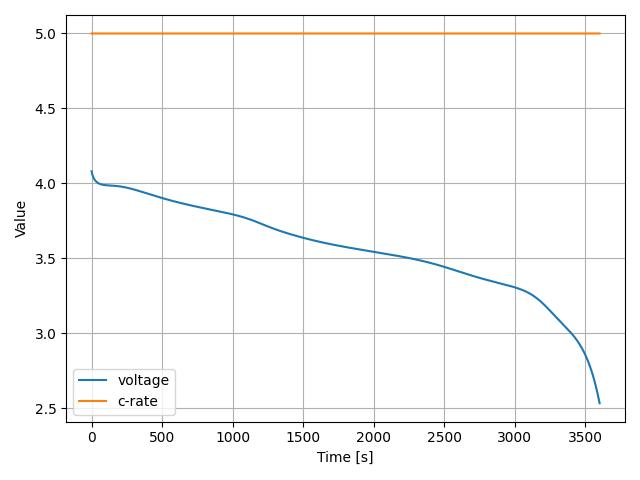
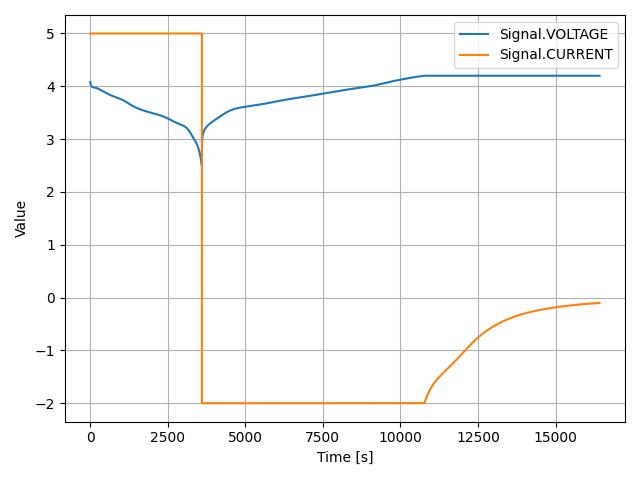
Added Evironment attribut for thermal ; new Signal type for results

diff --git a/backend/pybamm_backend.py b/backend/pybamm_backend.py
@@ -3,12 +3,15 @@ import pybamm
 from typing import Type
 
 from battery_sim.backend.base import SimulationBackend
+from battery_sim.backend.pybamm_signal import PYBAMM_SIGNAL_MAP
 from battery_sim.core.cell import Cell
+from battery_sim.core.environment import Environment
 from battery_sim.core.model import Model
 from battery_sim.core.simulation import Simulation
 from battery_sim.core.result import Result
 from battery_sim.core.solver import Solver, SolverConfig
 from battery_sim.types.timeseries import TimeSeries
+from battery_sim.types.signal import Signal
 
 _SOLVER_REGISTRY: dict[Solver, Type[pybamm.BaseSolver]] = {
      Solver.CASADI: pybamm.CasadiSolver,
@@ -20,10 +23,10 @@ class PyBaMMBackend(SimulationBackend):
 
     def run(self, simulation: Simulation, **kwargs) -> Result:
         
-        model = self._build_model(simulation.model)
+        model = self._build_model(simulation.model, simulation.environment)
         experiment = self._build_experiment(simulation)
         solver = self._build_solver(simulation.solver_config)
-        parameters = self._build_parameters(simulation.cell)
+        parameters = self._build_parameters(simulation.cell, simulation.environment)
 
         sim = pybamm.Simulation(
              model,
@@ -37,22 +40,43 @@ class PyBaMMBackend(SimulationBackend):
              initial_soc=1
         )
 
+        data = {}
         time = solution["Time [s]"].data
-        voltage = solution["Terminal voltage [V]"].data
-        c_rate = solution["C-rate"].data
+        for signal, (pybamm_name, unit) in PYBAMM_SIGNAL_MAP.items():
 
-        return Result({
-             "time": TimeSeries(time_s=time, values=time, unit="s"),
-             "voltage": TimeSeries(time_s=time, values=voltage, unit="V"),
-             "c-rate": TimeSeries(time_s=time, values=c_rate, unit="-")
-        })
+            values = solution[pybamm_name].data
 
-    def _build_model(self, model: Model) -> pybamm.lithium_ion.BaseModel:
+            if signal == Signal.SOC:
+                values = values * 100.0
+
+            if signal == Signal.TEMPERATURE:
+                values = values - 273.15
+                unit = "C"
+            
+            data[signal] = TimeSeries(
+                time_s=time,
+                values=values,
+                unit=unit
+            )
+
+        return Result(data)
+
+    def _build_model(self, model: Model, environment: Environment) -> pybamm.lithium_ion.BaseModel:
+        options = {}
+        
+        if environment.convection_W_per_m2K is not None:
+            options["thermal"] = "lumped"
+
+            # "isothermal" → pas de thermique
+            # "lumped" → 1 température cellule
+            # "x-lumped" / "x-full" → spatial 
+            
+
         if model == Model.SPM:
-            return pybamm.lithium_ion.SPM()
+            return pybamm.lithium_ion.SPM(options=options)
         
         elif model == Model.DFN:
-            return pybamm.lithium_ion.DFN()
+            return pybamm.lithium_ion.DFN(options=options)
         
         else:
             raise ValueError(f"Unsupported model: {model}")
@@ -67,10 +91,8 @@ class PyBaMMBackend(SimulationBackend):
         
         if simulation.solver_config.time_step_s is not None:
              periode = f"{simulation.solver_config.time_step_s} seconds"
-
-        temperature_k = simulation.environment.temperature_C + 273.15
             
-        return pybamm.Experiment(steps, periode, temperature_k)
+        return pybamm.Experiment(steps, periode)
     
     def _build_solver(self, solver_config: SolverConfig) -> pybamm.BaseSolver:
          try:
@@ -83,38 +105,53 @@ class PyBaMMBackend(SimulationBackend):
               atol=solver_config.atol
          )
     
-    def _build_parameters(self, cell: Cell) -> pybamm.ParameterValues:
+    def _build_parameters(self, cell: Cell, environment: Environment) -> pybamm.ParameterValues:
         """
-        Build a PyBaMM ParameterValues object from a Cell object.
+        Build a PyBaMM ParameterValues object from:
+        - Cell object
+        - Environment object
         """
         param_values = pybamm.ParameterValues("Chen2020")
+        updates = {}
 
         # Map Cell parameters to PyBaMM parameters
+              
         if cell.nominal_capacity_Ah is not None:
-            param_values["Nominal cell capacity [A.h]"] = cell.nominal_capacity_Ah
+            updates["Nominal cell capacity [A.h]"] = cell.nominal_capacity_Ah
         if cell.nominal_voltage_V is not None:
-            param_values["Nominal voltage [V]"] = cell.nominal_voltage_V
+            updates["Nominal voltage [V]"] = cell.nominal_voltage_V
         
         # TODO: add more parameters as needed
         # TODO: add correct parameters name for the following:
 
         # if cell.internal_resistance_Ohm is not None:
-        #     param_values["Internal resistance [Ohm]"] = cell.internal_resistance_Ohm
+        #     updates["Internal resistance [Ohm]"] = cell.internal_resistance_Ohm
 
         if cell.electrode_area_m2 is not None:
-            param_values["Electrode area [m^2]"] = cell.electrode_area_m2
+            updates["Electrode area [m^2]"] = cell.electrode_area_m2
         if cell.electrode_thickness_m is not None:
-            param_values["Electrode thickness [m]"] = cell.electrode_thickness_m
+            updates["Electrode thickness [m]"] = cell.electrode_thickness_m
 
         if cell.density_kg_per_m3 is not None:
-            param_values["Density [kg/m^3]"] = cell.density_kg_per_m3
+            updates["Density [kg/m^3]"] = cell.density_kg_per_m3
         if cell.specific_heat_J_per_kgK is not None:
-            param_values["Specific heat capacity [J/kg/K]"] = cell.specific_heat_J_per_kgK
+            updates["Specific heat capacity [J/kg/K]"] = cell.specific_heat_J_per_kgK
         if cell.thermal_conductivity_W_per_mK is not None:
-            param_values["Thermal conductivity [W/m/K]"] = cell.thermal_conductivity_W_per_mK
+            updates["Thermal conductivity [W/m/K]"] = cell.thermal_conductivity_W_per_mK
 
+
+        # Map Environment parameters to PyBaMM parameters
+        if environment.temperature_C is not None:
+            updates["Ambient temperature [K]"] = environment.temperature_C + 273.15
+        if environment.ambiant_temperature_C is not None:
+            updates["Ambient temperature [K]"] = environment.ambiant_temperature_C + 273.15
+        if environment.convection_W_per_m2K is not None:
+            updates["Convection coefficient [W/m^2/K]"] = environment.convection_W_per_m2K
+
+
+        param_values.update(updates)
         return param_values
-    
+
     def supports_model(self, model: Model) -> bool:
          return model  in {Model.SPM, Model.DFN}
 

diff --git a/core/result.py b/core/result.py
@@ -1,21 +1,22 @@
 # battery_sim/core/result.py
 from typing import Optional, Dict
 from battery_sim.types.timeseries import TimeSeries
+from battery_sim.types.signal import Signal
 
 class Result:
-    def __init__(self, data: Dict[str, TimeSeries]):
+    def __init__(self, data: Dict[Signal, TimeSeries]):
         self._data = data
 
-    def get(self, name: str) -> TimeSeries:
-        return self._data[name]
+    def get(self, signal: Signal) -> TimeSeries:
+        return self._data[signal]
 
-    def final(self, name: str) -> float:
-        return self._data[name].values[-1]
+    def final(self, signal: Signal) -> float:
+        return self._data[signal].values[-1]
 
-    def available_signals(self):
+    def available_signals(self) -> list[Signal]:
         return list(self._data.keys())
     
-    def plot(self, names: Optional[list[str]]):
+    def plot(self, names: Optional[list[Signal]]):
         import matplotlib.pyplot as plt
 
         if names is None:

diff --git a/core/environment.py b/core/environment.py
@@ -7,12 +7,18 @@ from typing import Optional
 class Environment:
     temperature_C: float
     convection_W_per_m2K: Optional[float] = None
+    ambiant_temperature_C: Optional[float] = None
 
     def validate(self) -> None:
-        if self.temperature_C > 100.0 or self.temperature_C < -40.0:
+        if not (-40.0 <= self.temperature_C <= 100.0):
             raise EnvironmentValidationError(
                 "Temperature outside of boundaries - Environment not valide"
             )
+        if self.ambiant_temperature_C is not None:
+            if not (-50.0 <= self.ambiant_temperature_C <= 80.0):
+                raise EnvironmentValidationError(
+                    "Temperature outside of boundaries - Environment not valide"
+                )
         
         if self.convection_W_per_m2K is not None and self.convection_W_per_m2K <= 0:
             raise EnvironmentValidationError(

diff --git a/backend/pybamm_signal.py b/backend/pybamm_signal.py
@@ -1,0 +1,13 @@
+# battery_sim/backend/pybamm_signal
+from battery_sim.types.signal import Signal
+
+PYBAMM_SIGNAL_MAP = {
+    Signal.TIME: ("Time [s]", "s"),
+    Signal.VOLTAGE: ("Terminal voltage [V]", "V"),
+    Signal.CURRENT: ("Current [A]", "A"),
+    # Signal.SOC: ("X-averaged state of charge", "%"),
+    Signal.TEMPERATURE: ("Cell temperature [K]", "K"),
+    # Signal.HEAT_GENERATION: ("Heat generation [W]", "W")
+}
+
+# TODO: Add PyBaMM signals

diff --git a/types/signal.py b/types/signal.py
@@ -1,0 +1,12 @@
+# battery_sim/types/signal.py
+
+from enum import Enum
+
+class Signal(Enum):
+    TIME = "time"
+    VOLTAGE = "voltage"
+    CURRENT = "current"
+    SOC = "soc"
+    TEMPERATURE = "temperature"
+    POWER = "power"
+    HEAT_GENERATION = "heat_generation"

diff --git a/battery_sim_gate_1.md b/battery_sim_gate_1.md
@@ -108,3 +108,4 @@ Act as an experienced senior engineer mentoring a developer who completed Phase 
 ---
 
 **Milestone:** Phase 1 complete. Ready for **Phase 2** - engineering control and observability.
+
